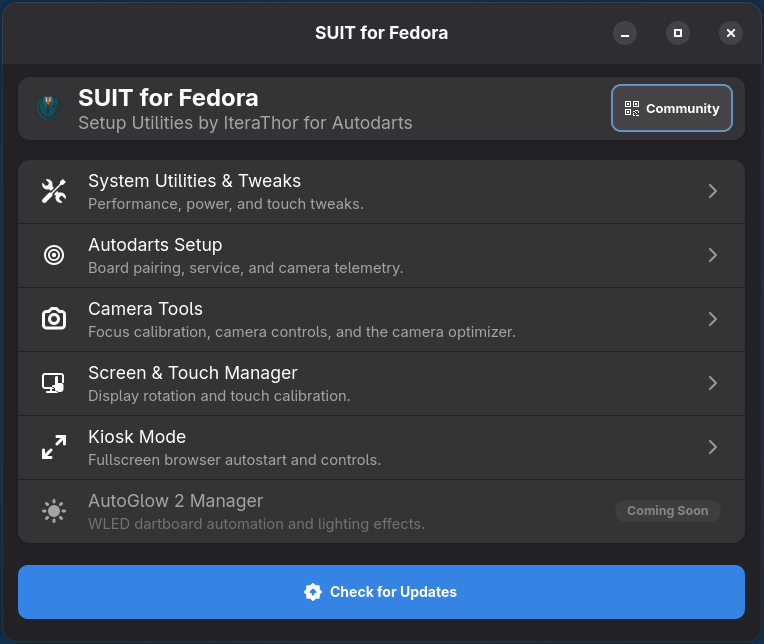
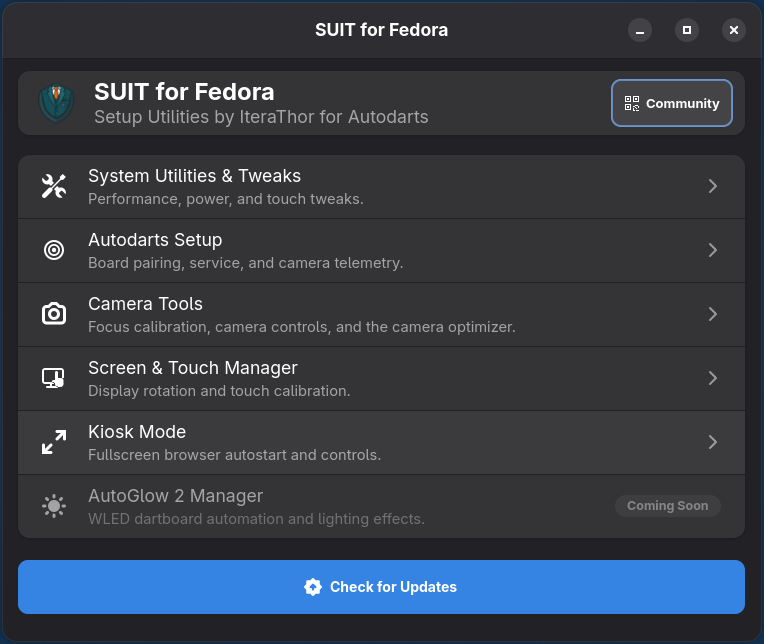
docs: refresh Autodarts Setup, Kiosk and main menu in the README
The Autodarts page is now the embedded v2 console with a Tools and
Maintenance section; describe that and retake its screenshot (board ID
redacted). Retake the redesigned Kiosk page and the main menu with the
larger logo.

diff --git a/README.md b/README.md
@@ -68,15 +68,15 @@ One-click performance, display, and desktop optimizations for dartboard machines
 ---
 
 ### 3. Autodarts Setup
-Manage the Autodarts core service daemon, camera configurations, and board pairing.
+The official Autodarts v2 console, embedded and sized to fit, plus install and maintenance tools.
 
 <div align="center">
   <img src="docs/assets/screenshots/03-autodarts-setup.png" alt="Autodarts Setup" width="700">
 </div>
 
-* One-tap service controls to start, stop, or restart `autodarts.service`.
-* Live camera selection with resolution and frame rate adjustments (up to 1080p, 30 FPS).
-* Direct board pairing wizard and local web UI launcher.
+* Everything from the Autodarts console in one page: board info and sign-in, run as a service, start / stop / reset / calibrate, cameras, resolution, FPS, standby time and detection speed.
+* The console scales its font to the window, so every section is visible without scrolling.
+* **Tools and Maintenance**: restart the console, and reinstall or uninstall Autodarts.
 
 ---
 
@@ -133,6 +133,6 @@ Run Autodarts as a dedicated full-screen appliance with customized browser contr
   <img src="docs/assets/screenshots/06-kiosk-controls.png" alt="Fullscreen Kiosk Mode with In-Page Controls" width="560">
 </div>
 
-* Boots Chromium directly into fullscreen mode without desktop distractions.
-* Toggle automatic autostart on boot.
-* Built-in Chromium extension adding Power, Reboot, and Exit buttons directly into the Autodarts web scoreboard.
+* Boots Chromium directly into fullscreen mode without desktop distractions, optionally on login.
+* Built-in Chromium extension adding Power, Restart, Exit and Board Configuration buttons directly into the Autodarts header.
+* Optional dartboard light button for WLED, Tasmota or Shelly devices, with an On / Off test.
